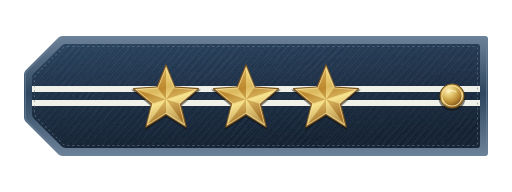
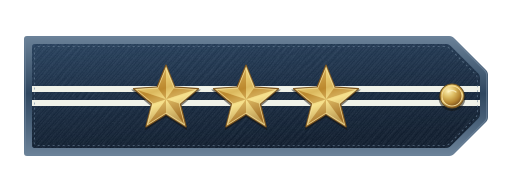
feat(uniform): reverse shoulder-board orientation inward

diff --git a/src/features/profile/uniform/UniformShoulderBoard.tsx b/src/features/profile/uniform/UniformShoulderBoard.tsx
@@ -7,6 +7,8 @@ type UniformShoulderBoardProps = {
 };
 
 export const UniformShoulderBoard: React.FC<UniformShoulderBoardProps> = ({ config, side }) => {
+  // PNG: square outer end LEFT; clipped inner end + attachment button RIGHT.
+  // Viewer-left uses the PNG as-is; mirror only viewer-right to face the collar.
   const mirror = side === "wearer-left";
   return (
     <img

diff --git a/art/uniforms/README.md b/art/uniforms/README.md
@@ -2,7 +2,7 @@
 
 `shoulder-twill.png` is an original cloth material generated with the built-in ImageGen tool. The final prompt is recorded in `scripts/uniforms/imagegen-prompts.json` under `shoulderBoardMaterial`. No garment sprite is regenerated by this workflow.
 
-The 24 production PNGs are exported from this shared material and `scripts/uniforms/shoulder-board-spec.json`. All coordinates are in a 512 × 192 canvas: body bounds (24, 36)–(488, 156), clipped outer end on the left, gold attachment button at (452, 96), radius 12. The current React mirror places that button toward the collar on both shoulders.
+The 24 production PNGs are exported from this shared material and `scripts/uniforms/shoulder-board-spec.json`. All coordinates are in a 512 × 192 canvas: body bounds (24, 36)–(488, 156), square outer end on the left and clipped inner end on the right, gold attachment button at (452, 96), radius 12. The current React mirror places both the clipped end and button toward the collar on both shoulders. Only the body/trim contours are reflected in the exporter; marks, button, material and lighting retain their coordinates, so chevrons still point inward and bars stay near the outer end.
 
 All regular stars share radius 34, inner ratio 0.44, 80 px center spacing and the same metal/facets. Their visible bounds are centered vertically. White stripes are 6 px thick with 14 px center spacing, clipped continuously to the cloth beneath the stars and button. Bars and chevrons use fixed geometry and spacing from the spec.
 
